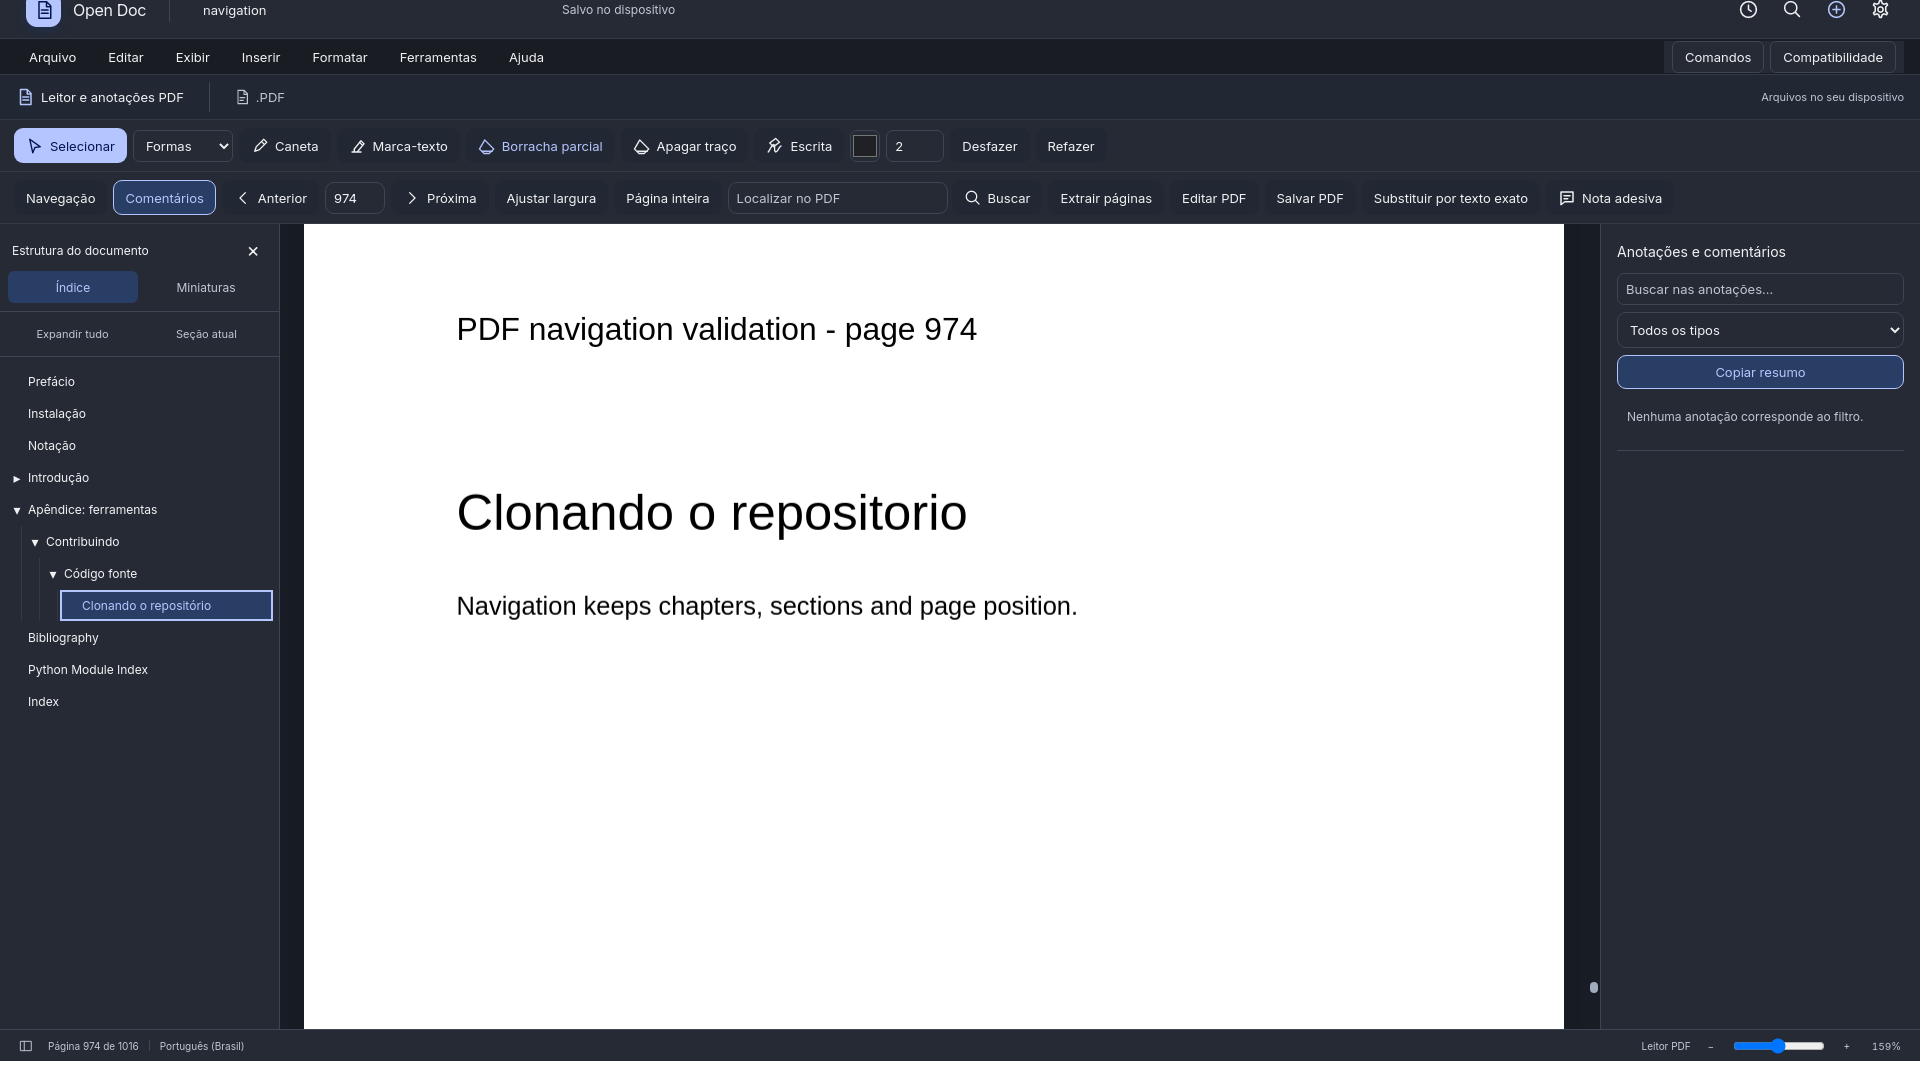
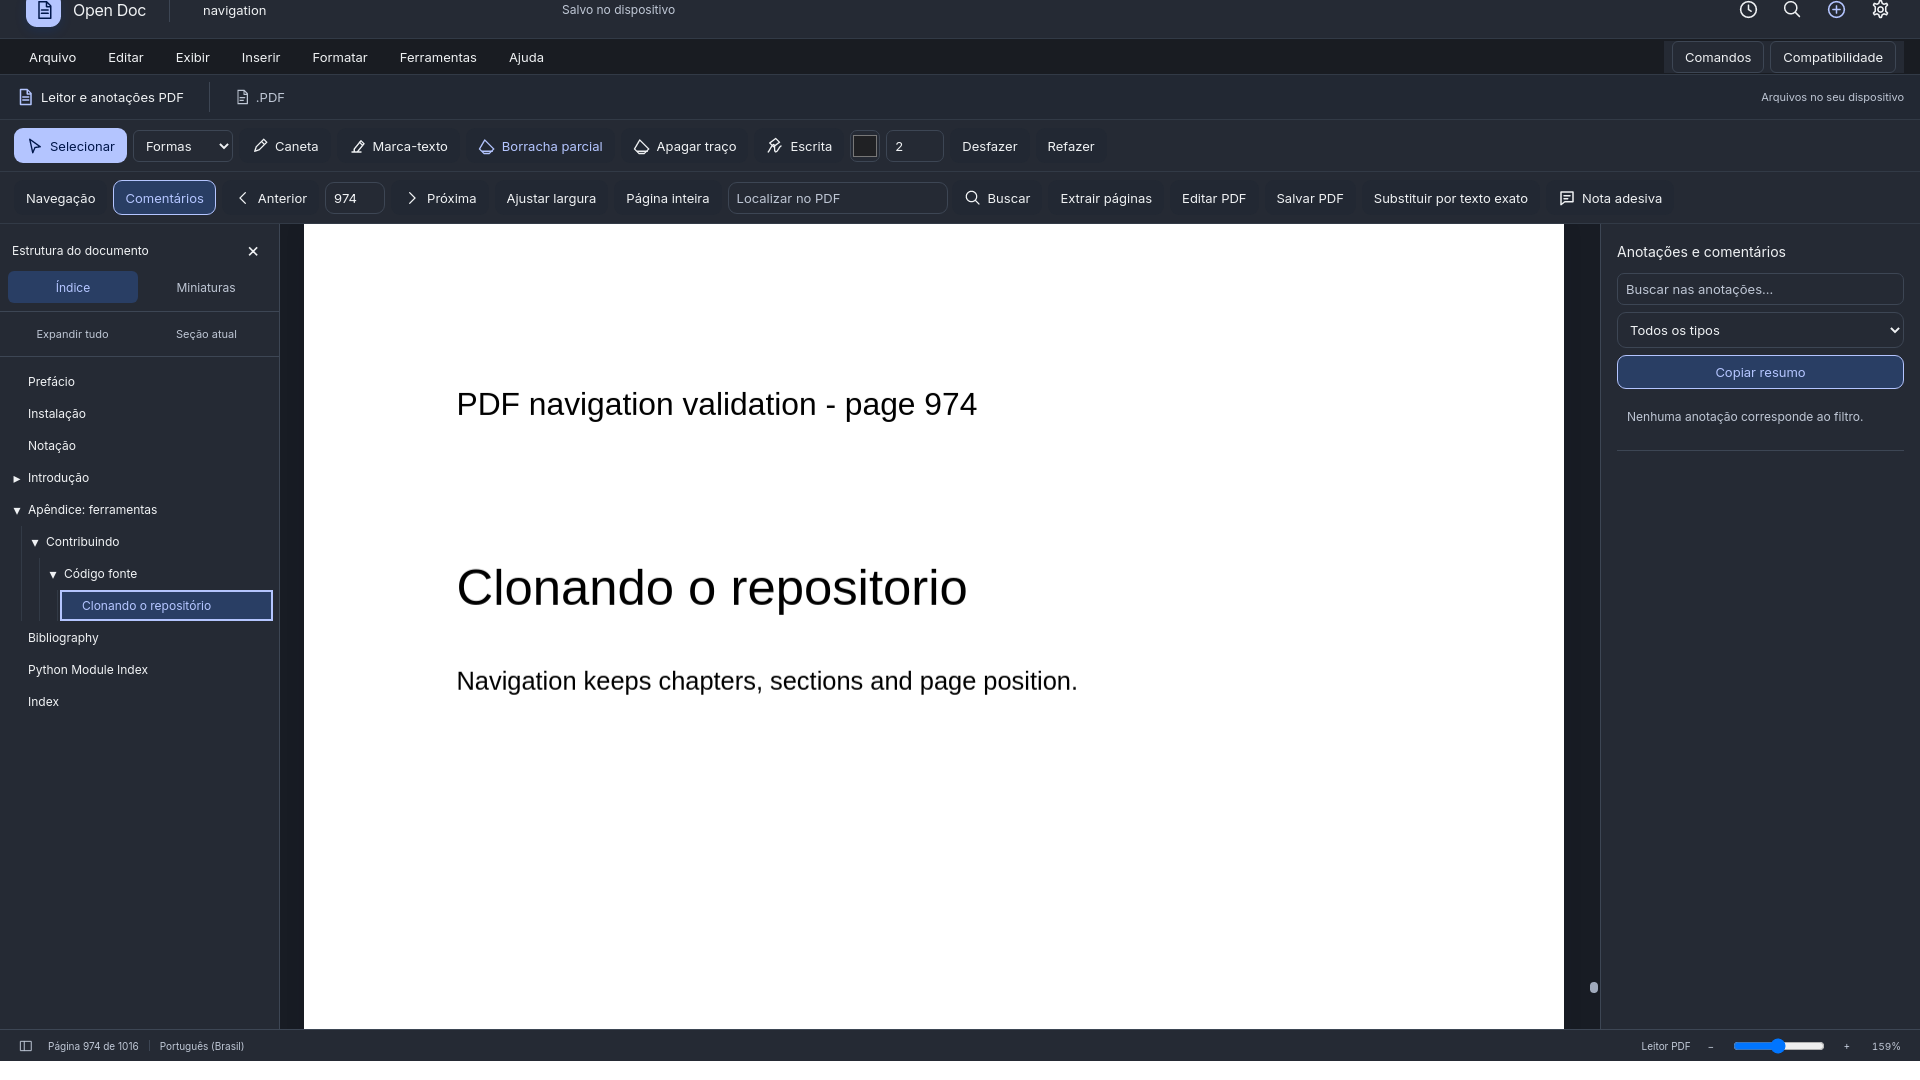
Usa dependências existentes para validar PDF de 1016 páginas no CI

diff --git a/tools/qa_pdf_navigation.py b/tools/qa_pdf_navigation.py
@@ -3,11 +3,13 @@
 import hashlib
 import json
 import os
+from io import BytesIO
 from pathlib import Path
 from tempfile import TemporaryDirectory
 from time import sleep
 
-import fitz
+from fpdf import FPDF
+from pypdf import PdfReader, PdfWriter
 from qa_runtime import Keyboard
 from qa_stabilization import Config, create_app, services, wait, webview
 
@@ -18,39 +20,57 @@ OUTPUT.mkdir(parents=True, exist_ok=True)
 
 
 def fixture(path):
-    document = fitz.open()
+    document = FPDF(unit="pt", format=(595, 842))
+    document.set_auto_page_break(False)
     for index in range(1016):
-        page = document.new_page(width=595, height=842)
-        page.insert_text(
-            (72, 90), "PDF navigation validation - page " + str(index + 1), fontsize=15
-        )
+        document.add_page()
+        document.set_font("Helvetica", size=15)
+        document.text(72, 90, "PDF navigation validation - page " + str(index + 1))
         if index == 973:
-            page.insert_text((72, 180), "Clonando o repositorio", fontsize=24)
-            page.insert_text(
-                (72, 220),
-                "Navigation keeps chapters, sections and page position.",
-                fontsize=12,
+            document.set_font("Helvetica", size=24)
+            document.text(72, 180, "Clonando o repositorio")
+            document.set_font("Helvetica", size=12)
+            document.text(
+                72, 220, "Navigation keeps chapters, sections and page position."
             )
-    document.set_toc(
-        [
-            [1, "Prefácio", 1],
-            [1, "Instalação", 2],
-            [1, "Notação", 3],
-            [1, "Introdução", 4],
-            [2, "Objetivos", 5],
-            [2, "Método", 6],
-            [1, "Apêndice: ferramentas", 970],
-            [2, "Contribuindo", 972],
-            [3, "Código fonte", 973],
-            [4, "Clonando o repositório", 974],
-            [1, "Bibliography", 1000],
-            [1, "Python Module Index", 1007],
-            [1, "Index", 1010],
-        ],
-        collapse=1,
-    )
-    document.save(path)
-    document.close()
+    writer = PdfWriter()
+    writer.append(PdfReader(BytesIO(bytes(document.output()))))
+    parents = {}
+    for level, title, page in [
+        [1, "Prefácio", 1],
+        [1, "Instalação", 2],
+        [1, "Notação", 3],
+        [1, "Introdução", 4],
+        [2, "Objetivos", 5],
+        [2, "Método", 6],
+        [1, "Apêndice: ferramentas", 970],
+        [2, "Contribuindo", 972],
+        [3, "Código fonte", 973],
+        [4, "Clonando o repositório", 974],
+        [1, "Bibliography", 1000],
+        [1, "Python Module Index", 1007],
+        [1, "Index", 1010],
+    ]:
+        parents[level] = writer.add_outline_item(
+            title, page - 1, parent=parents.get(level - 1), is_open=False
+        )
+    writer.write(path)
+
+
+def outline_entries(reader):
+    entries = []
+
+    def walk(items, level):
+        for item in items:
+            if isinstance(item, list):
+                walk(item, level + 1)
+            else:
+                entries.append(
+                    [level, item.title, reader.get_destination_page_number(item) + 1]
+                )
+
+    walk(reader.outline, 1)
+    return entries
 
 
 def capture(window, name):
@@ -203,9 +223,9 @@ def main():
         if not source.exists():
             fixture(source)
         before = hashlib.sha256(source.read_bytes()).hexdigest()
-        with fitz.open(source) as document:
-            expected = document.get_toc()
-            assert document.page_count == 1016
+        document = PdfReader(source)
+        expected = outline_entries(document)
+        assert len(document.pages) == 1016
 
         def qa():
             window = webview.windows[0]
